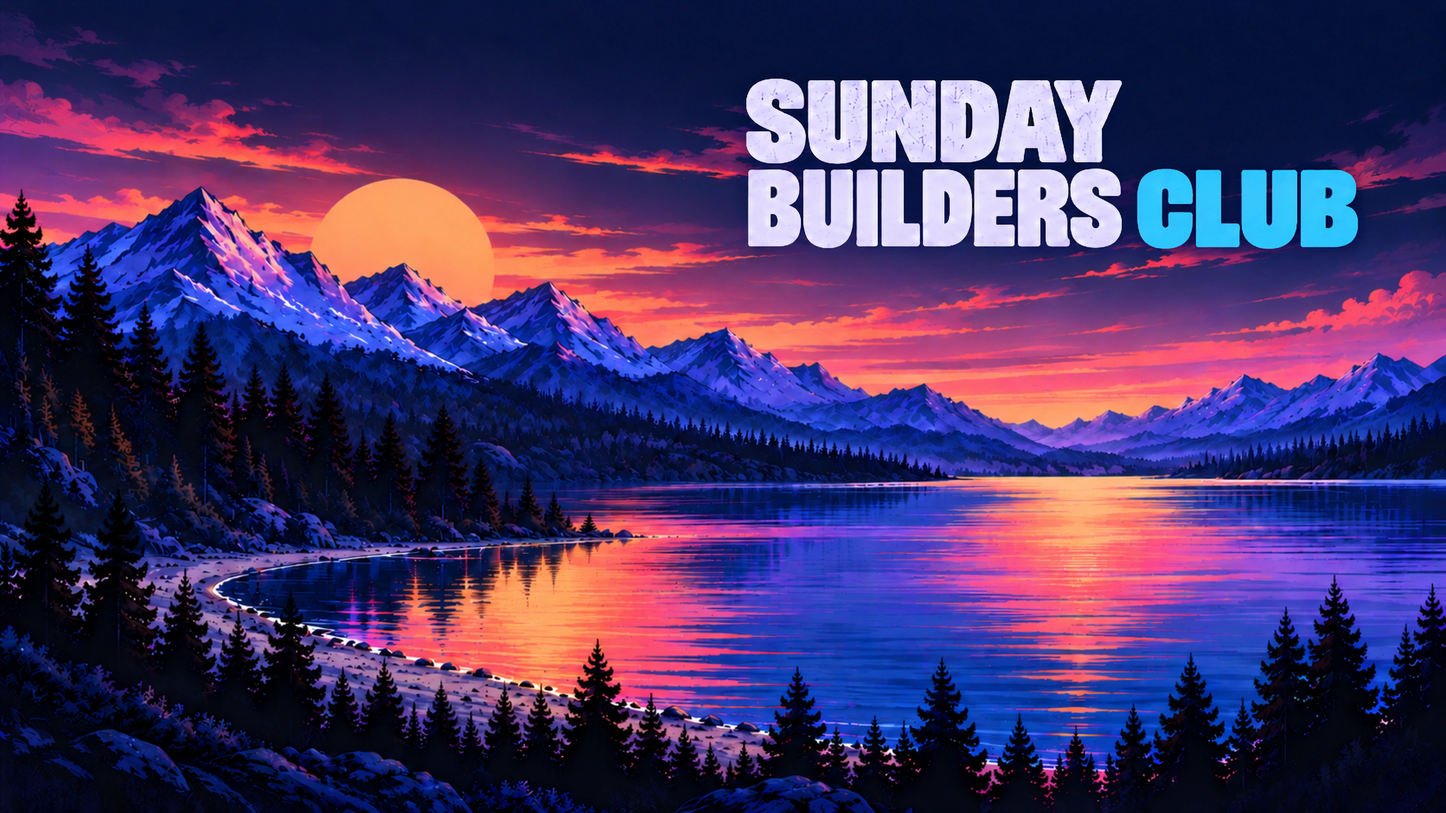
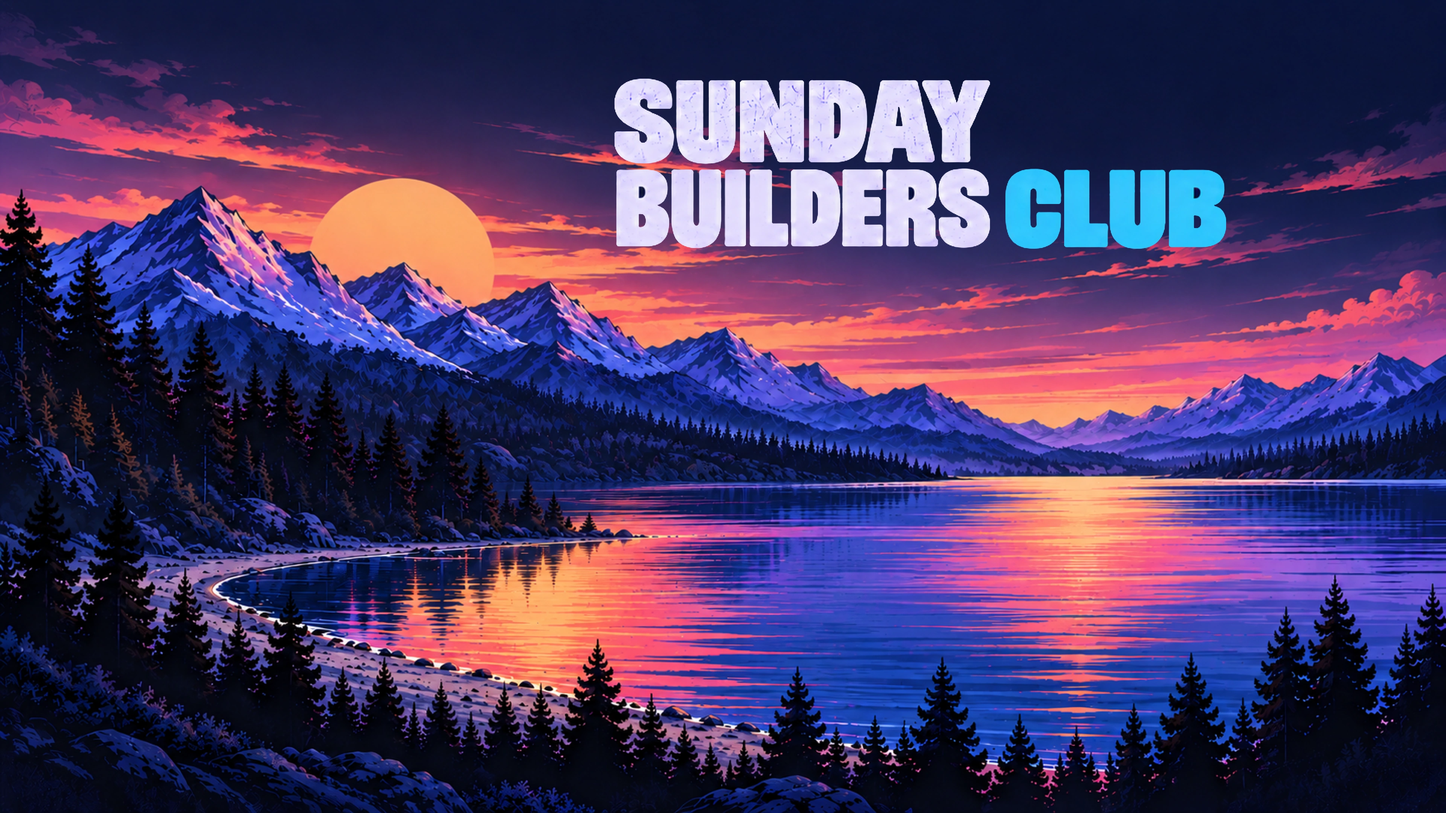
Keep the wallpaper title whole on 16:10, 3:2 and 4:3 screens
Omarchy crops 16:9 wallpapers to fill other screen shapes, which cut off the
end of CLUB. The title is now placed on the matching text-free image 350 px
further left, with crisp edges. Screenshots and evidence follow separately.

diff --git a/CREDITS.md b/CREDITS.md
@@ -25,11 +25,12 @@ Shared record for all four files:
   redrawn and corrected by the generator
 - Process: generated at 1672×941, then resampled with macOS `sips` to
   3840×2160, then re-encoded from PNG to WebP (quality 95) with ImageMagick
-  to keep the download small. This is not native 4K generation. In the two
-  "con-scritta" files the soft lettering edges left by the upscale were then
-  re-sharpened (about 4–6 px around each letter edge, flattening the faint
-  bevel the generation prompts asked to remove); the rest of each image is
-  unchanged
+  to keep the download small. This is not native 4K generation. For the two
+  "con-scritta" files the title was lifted out of the generated image with
+  re-sharpened edges (the upscale had left them soft, and the faint bevel the
+  generation prompts asked to remove is flattened) and placed on the matching
+  "senza-scritta" image, 350 px further left than generated so it stays whole
+  when Omarchy crops the wallpaper for 16:10, 3:2 and 4:3 screens
 - Style: the "omarchy" pair is an artistic interpretation of Omarchy Quattro's
   Tokyo Night landscape wallpapers (Winding Road, Sunset Lake); it is not an
   official Omarchy asset and contains none of their artwork. The "retro" pair

diff --git a/README.md b/README.md
@@ -96,8 +96,9 @@ Green and yellow are added for terminal use, since the banner has none.
 ## Wallpapers
 
 Four 3840×2160 WebP backgrounds in two styles, each with and without the club
-lettering (see [credits](CREDITS.md) for how they were made). Omarchy shows
-them in file-name order, so the first one is the default:
+lettering (see [credits](CREDITS.md) for how they were made). The lettering
+stays whole when Omarchy crops the wallpaper to fill 16:10, 3:2 or 4:3 screens.
+Omarchy shows them in file-name order, so the first one is the default:
 
 <table>
   <tr>
